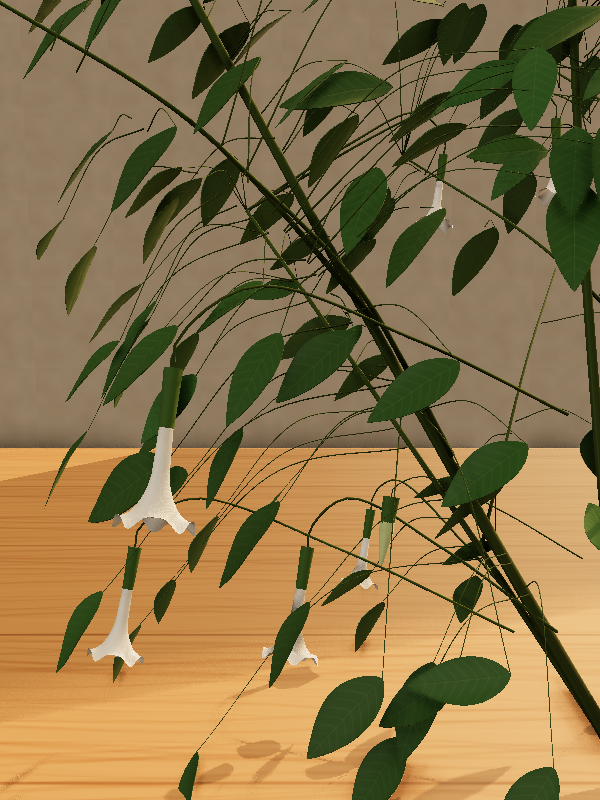
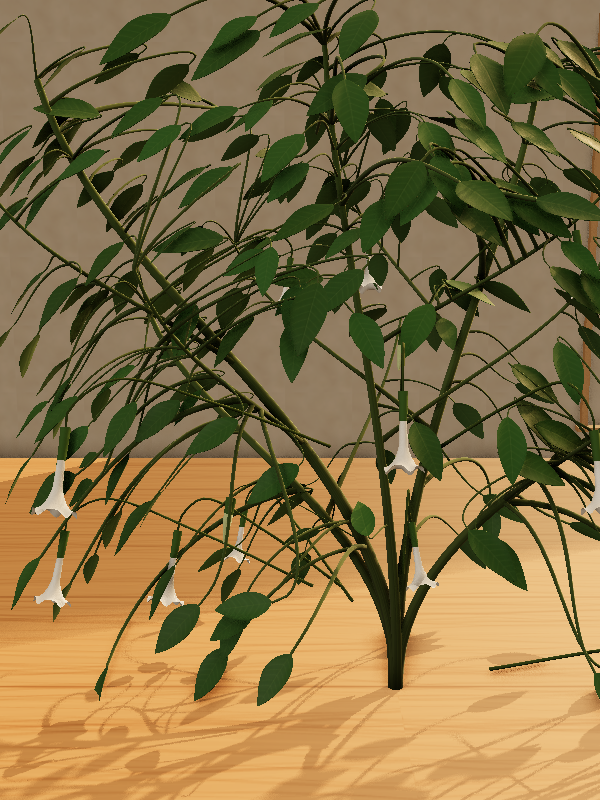
feat(3d): grown, fuller stems and branches in the plant's art direction
- Curve-based centrelines (cubic Bezier) for stems, branches and petioles;
  leaves and branches attach on the same curves (no more straight-line
  attachments off the drawn stem, no world-axis bow).
- Thickness hierarchy: stems 1.35x measured with a size-relative minimum,
  branches start at 72% of the parent radius, twigs thicken with length,
  fuller flower stalks; smoother taper and junction collars.
- Stem material joins leaves/petals: matte with soft sheen.

diff --git a/web/src/three/architecture.ts b/web/src/three/architecture.ts
@@ -1,4 +1,4 @@
-import { CatmullRomCurve3, Euler, Matrix4, Quaternion, Vector3 } from "three";
+import { CatmullRomCurve3, CubicBezierCurve3, Euler, Matrix4, Quaternion, Vector3 } from "three";
 import type { PlantState } from "@rootsight/shared/schema";
 import type { RenderProfile as PlantProfile } from "./visual";
 import { seededRandom, smoothstep } from "./procedural";
@@ -121,6 +121,24 @@ export function densityLeafFloor(p: PlantProfile, v: Visual): number {
 /** Blade direction for an azimuth and a pitch from vertical (0 up, pi/2 horizontal, pi hanging). */
 const bladeDirection = (az: number, pitch: number) => new Vector3(Math.sin(pitch) * Math.sin(az), Math.cos(pitch), Math.sin(pitch) * Math.cos(az));
 
+/**
+ * A grown, not drawn, centreline: a cubic Bézier from `a` to `b` that leaves `a` along `leave`, arrives
+ * along `arrive` and can bow sideways a little. The same curve places the leaves and branches it carries,
+ * so nothing attaches to a straight line the mesh no longer follows.
+ */
+export function smoothAxis(a: Vector3, b: Vector3, leave: Vector3, arrive: Vector3, bow = new Vector3()) {
+  const L = a.distanceTo(b);
+  const curve = new CubicBezierCurve3(a.clone(), a.clone().addScaledVector(leave, L * 0.38).addScaledVector(bow, L), b.clone().addScaledVector(arrive, -L * 0.3).addScaledVector(bow, L * 0.6), b.clone());
+  const samples = curve.getPoints(24);
+  return {
+    at: (t: number) => curve.getPoint(Math.min(1, Math.max(0, t))),
+    /** Parameter of the centreline point closest to p. */
+    nearest: (p: Vector3) => { let best = 0, d = Infinity; samples.forEach((s, i) => { const e = s.distanceToSquared(p); if (e < d) { d = e; best = i; } }); return best / 24; },
+    points: (t1 = 1, n = 12) => Array.from({ length: n + 1 }, (_, j) => curve.getPoint(Math.min(1, t1) * j / n)),
+  };
+}
+export type Axis = ReturnType<typeof smoothAxis>;
+
 /** Closest point to `p` on the segment a-b, as a fraction along it. */
 function along(a: Vector3, b: Vector3, p: Vector3) {
   const ab = b.clone().sub(a);
@@ -159,13 +177,22 @@ export function plantLayout(p: PlantProfile, state: PlantState, v: Visual): Plan
   const bases = seen
     ? seen.map(s => RIGHT.clone().multiplyScalar(Math.max(-0.85, Math.min(0.85, s.baseX * frame.W / 2 / Math.max(0.01, soilR))) * soilR).addScaledVector(TOWARD, LAYER_DEPTH[s.layer] * soilR * 0.25))
     : Array.from({ length: nStems }, (_, i) => new Vector3(Math.sin(i * GOLDEN) * soilR * 0.28 * Math.sqrt(i / nStems), 0, Math.cos(i * GOLDEN) * soilR * 0.28 * Math.sqrt(i / nStems)));
-  const stemRadius = (i: number) => (seen ? seen[i].thicknessMm / 2000 * Math.sqrt(growth) : radius);
-  const path = (id: string, points: Vector3[], r: number, depth = 0) => {
-    const random = seededRandom(v.seed + id);
-    const curvature = v.stems.curvature * (random() - 0.5);
-    const delta = points.at(-1)!.clone().sub(points[0]);
-    const curved = points.map((point, i) => point.clone().add(new Vector3(Math.sin(i / (points.length - 1) * Math.PI) * delta.length() * curvature * 0.2, 0, Math.sin(i / (points.length - 1) * Math.PI) * delta.length() * curvature * 0.1)));
-    stemPaths.push({ id, points: curved, radius: r, taper: v.stems.taper, depth });
+  // Stylized botanical proportions: stems a little fuller than measured, never thinner than a plant this
+  // size can stand on, so they carry their flowers and fruits visibly.
+  const FULL = 1.35, minStem = initialH * 0.0045 * Math.sqrt(growth);
+  const stemRadius = (i: number) => Math.max(minStem, (seen ? seen[i].thicknessMm / 2000 : v.stems.thicknessCm / 200) * Math.sqrt(growth)) * FULL;
+  const radiusAt = (r: number, t: number) => r * (1 - v.stems.taper * Math.pow(t, 1.6)); // matches StemGeometry
+  const petioleRadius = Math.max(radius * v.botanical.structure.petioleRadius * 1.6, length * 0.018);
+  const path = (id: string, points: Vector3[], r: number, depth = 0) => { stemPaths.push({ id, points, radius: r, taper: v.stems.taper, depth }); };
+  // A petiole or twig: rises off its stem, arches, and arrives along the blade's own axis.
+  // Longer twigs are thicker (a twig carrying a far leaf is wood, not a wire); `g` scales an emerging one.
+  const petiole = (id: string, from: Vector3, to: Vector3, r: number, into?: Vector3, g = 1) => {
+    const d = to.clone().sub(from), L = d.length();
+    if (L < 1e-6) return;
+    r = Math.max(r, L * 0.011 * g);
+    d.divideScalar(L);
+    const leave = d.clone().addScaledVector(UP, 0.55).normalize(), arrive = (into ?? d).clone().normalize();
+    path(id, new CubicBezierCurve3(from.clone(), from.clone().addScaledVector(leave, L * 0.4), to.clone().addScaledVector(arrive, -L * 0.3), to.clone()).getPoints(8), r, 2);
   };
   const leafTop = grid ? foliageExtent(grid).top : 1.5;
   const stemTip = (stem: number) => {
@@ -174,20 +201,34 @@ export function plantLayout(p: PlantProfile, state: PlantState, v: Visual): Plan
     const jitter = 1 - (1 - v.silhouette.symmetry) * (0.15 + stem % 3 * 0.14);
     return new Vector3(Math.sin(a) * spread * 0.62, initialH * Math.pow(growth, 0.25) * 0.84 * jitter, Math.cos(a) * spread * 0.62);
   };
+  // Each main stem leaves the soil upright, bows gently (per the photographed curvature) and turns back up
+  // toward the light at its tip.
+  const stemAxes: Axis[] = bases.map((base, s) => {
+    const tip = stemTip(s), dir = tip.clone().sub(base).normalize();
+    const r = seededRandom(`${v.seed}:stem-axis:${s}`);
+    const side = new Vector3().crossVectors(dir, UP);
+    if (side.lengthSq() < 1e-6) side.set(1, 0, 0);
+    const bow = side.normalize().multiplyScalar((r() - 0.5) * (0.04 + 0.08 * v.stems.curvature));
+    return smoothAxis(base, tip, UP, dir.clone().add(UP).normalize(), bow);
+  });
   const highestNode = new Array<number>(nStems).fill(0);
-  const majorBranches: { id: string; stem: number; start: Vector3; end: Vector3; birth: number }[] = [];
+  const majorBranches: { id: string; stem: number; axis: Axis; birth: number }[] = [];
   const initialBranches = ["branching", "tree"].includes(kind) ? Math.min(24, individual?.estimatedBranchCount ?? (kind === "tree" ? m.branchingDepth * 2 : m.branchingDepth)) : 0;
   const branchesF = initialBranches + Math.max(0, count - observed) / 8;
   if (initialBranches > 0) for (let b = 0; b < Math.min(32, Math.ceil(branchesF)); b++) {
     const show = b < initialBranches ? 1 : smoothstep(0, 1, branchesF - b);
     const stem = b % nStems, level = 0.38 + Math.floor(b / nStems) * v.botanical.growth.nodeSpacing;
-    const start = bases[stem].clone().lerp(stemTip(stem), level);
+    const start = stemAxes[stem].at(level);
     const az = b * GOLDEN, angle = v.botanical.structure.branchAngleDeg * Math.PI / 180;
     const length = (spread * 0.65 + initialH * 0.12) * show * Math.pow(growth, 0.2);
     const end = start.clone().add(new Vector3(Math.sin(az) * Math.sin(angle) * length, Math.cos(angle) * length, Math.cos(az) * Math.sin(angle) * length));
     const id = `branch-${b}`;
-    path(id, [start, start.clone().lerp(end, 0.5).add(new Vector3(0, length * 0.08, 0)), end], stemRadius(stem) * v.botanical.structure.branchRadius * show, 1);
-    majorBranches.push({ id, stem, start, end, birth: Math.max(0, b - initialBranches + 1) });
+    // A branch leaves its stem outward and a little up, then curves up toward the light; it starts at
+    // ~70% of its parent's radius there (and tapers on), so the junction reads as grown.
+    const out = new Vector3(Math.sin(az), 0, Math.cos(az));
+    const axis = smoothAxis(start, end, out.clone().multiplyScalar(0.75).addScaledVector(UP, 0.55).normalize(), end.clone().sub(start).normalize().add(UP).normalize());
+    path(id, axis.points(1, 12), radiusAt(stemRadius(stem), level) * 0.72 * show, 1);
+    majorBranches.push({ id, stem, axis, birth: Math.max(0, b - initialBranches + 1) });
     highestNode[stem] = Math.max(highestNode[stem], level);
   }
   const vinePoint = (stem: number, t: number) => {
@@ -203,13 +244,13 @@ export function plantLayout(p: PlantProfile, state: PlantState, v: Visual): Plan
   const nearestWood = (target: Vector3) => {
     let best = { parentId: `stem-0`, stem: 0, point: bases[0].clone(), distance: Infinity, t: 0 };
     for (let s = 0; s < nStems; s++) {
-      const tip = stemTip(s), t = Math.max(0.08, along(bases[s], tip, target)), point = bases[s].clone().lerp(tip, t);
+      const t = Math.max(0.08, stemAxes[s].nearest(target)), point = stemAxes[s].at(t);
       const distance = point.distanceTo(target);
       if (distance < best.distance) best = { parentId: `stem-${s}`, stem: s, point, distance, t };
     }
     for (const branch of majorBranches) {
       if (branch.birth > 0) continue;
-      const t = Math.max(0.2, along(branch.start, branch.end, target)), point = branch.start.clone().lerp(branch.end, t);
+      const t = Math.max(0.2, branch.axis.nearest(target)), point = branch.axis.at(t);
       const distance = point.distanceTo(target);
       if (distance < best.distance) best = { parentId: branch.id, stem: branch.stem, point, distance, t: -1 };
     }
@@ -256,7 +297,8 @@ export function plantLayout(p: PlantProfile, state: PlantState, v: Visual): Plan
         if (wood.t >= 0) highestNode[wood.stem] = Math.max(highestNode[wood.stem], wood.t);
       }
       const lift = kind === "aroid" ? Math.max(0.02, point.y - attachment.y) * 0.35 : attachment.distanceTo(point) * 0.2;
-      path(`petiole-${id}`, [attachment, attachment.clone().lerp(point, 0.5).add(new Vector3(0, lift, 0)), point], (kind === "aroid" ? radius * (0.7 + 0.3 * youth) : radius * v.botanical.structure.petioleRadius) * grow, 2);
+      if (kind === "aroid") path(`petiole-${id}`, [attachment, attachment.clone().lerp(point, 0.5).add(new Vector3(0, lift, 0)), point], radius * (0.7 + 0.3 * youth) * grow, 2);
+      else petiole(`petiole-${id}`, attachment, point, petioleRadius * grow, axis, grow);
     } else if (kind === "aroid") {
       const level = individual?.crownShape === "round" ? 0.52 + 0.25 * r[2] : 0.40 + 0.44 * r[2];
       const reach = spread * (0.35 + r[3] * 0.65);
@@ -286,11 +328,11 @@ export function plantLayout(p: PlantProfile, state: PlantState, v: Visual): Plan
       const coverage = Math.min(0.8, Math.max(0.3, v.stems.internodeCm / m.currentHeightCm * Math.max(1, totalNodes - 1))) * (1 - v.condition.legginess * 0.55);
       const stage = node - (i >= observed ? 1 - grow : 0);
       const t = Math.max(0.05, 1 - coverage + stage * coverage / Math.max(1, totalNodes - 1));
-      let axis = bases[assignedStem].clone().lerp(stemTip(assignedStem), t);
+      let axis = stemAxes[assignedStem].at(t);
       const available = majorBranches.filter(branch => branch.stem === assignedStem && branch.birth === 0);
       const branch = i >= observed ? majorBranches.find(branch => branch.id === `branch-${initialBranches + Math.floor((i - observed) / 8)}`) : available.length ? available[Math.floor(rank / pair) % available.length] : undefined;
       if (branch) {
-        axis = branch.start.clone().lerp(branch.end, 0.3 + 0.65 * ((rank % 3) / 2));
+        axis = branch.axis.at(0.3 + 0.65 * ((rank % 3) / 2));
         parentId = branch.id;
       }
       if (!branch) highestNode[assignedStem] = Math.max(highestNode[assignedStem], t);
@@ -300,7 +342,7 @@ export function plantLayout(p: PlantProfile, state: PlantState, v: Visual): Plan
       point = axis.clone().add(new Vector3(Math.sin(az) * branchL, branchL * 0.3, Math.cos(az) * branchL));
       attachment = axis;
       if (!branch) parentId = `stem-${assignedStem}`;
-      if (!observation) path(`petiole-${id}`, [axis, axis.clone().lerp(point, 0.5).add(new Vector3(0, branchL * 0.15, 0)), point], radius * v.botanical.structure.petioleRadius * grow, 2);
+      if (!observation) petiole(`petiole-${id}`, axis, point, petioleRadius * grow, undefined, grow);
       pitch = 1.35 + t * 0.3 + droop;
       size *= 1 - Math.min(0.2, node / Math.max(1, totalNodes) * 0.2);
     }
@@ -315,11 +357,12 @@ export function plantLayout(p: PlantProfile, state: PlantState, v: Visual): Plan
       orientation = bladeFrame(bladeDirection(az, pitch), TOWARD.clone().add(UP).normalize(), (r[4] - 0.5) * 0.22);
       if (seen && kind !== "aroid") {
         // An observed blade hangs on its observed stem, at the height the photo shows it.
-        const tip = stemTip(stem), t = Math.max(0.08, along(bases[stem], tip, point));
-        attachment = bases[stem].clone().lerp(tip, t);
+        const t = Math.max(0.08, stemAxes[stem].nearest(point));
+        attachment = stemAxes[stem].at(t);
         highestNode[stem] = Math.max(highestNode[stem], t);
       }
-      path(`petiole-${id}`, [attachment, attachment.clone().lerp(point, 0.5).add(new Vector3(0, initialH * 0.05, 0)), point], radius * (kind === "aroid" ? 0.8 : v.botanical.structure.petioleRadius), 2);
+      if (kind === "aroid") path(`petiole-${id}`, [attachment, attachment.clone().lerp(point, 0.5).add(new Vector3(0, initialH * 0.05, 0)), point], radius * 0.8, 2);
+      else petiole(`petiole-${id}`, attachment, point, petioleRadius, bladeDirection(az, pitch));
     }
     size *= 1 - v.botanical.growth.senescence * smoothstep(1, 4, growth) * (i < observed ? 1 - i / Math.max(1, observed) : 0);
     const rotation = orientation ?? new Quaternion().setFromEuler(new Euler(0, az, 0)).multiply(new Quaternion().setFromEuler(new Euler(-Math.PI / 2 + pitch, 0, (r[4] - 0.5) * 0.22)));
@@ -331,8 +374,7 @@ export function plantLayout(p: PlantProfile, state: PlantState, v: Visual): Plan
   }
   // Observed stems are drawn to their photographed tip; generated ones up to the highest leaf they carry.
   if (["branching", "tree"].includes(kind)) bases.forEach((base, i) => {
-    const tip = base.clone().lerp(stemTip(i), seen ? Math.max(1, highestNode[i]) : highestNode[i]);
-    path(`stem-${i}`, Array.from({ length: 6 }, (_, j) => base.clone().lerp(tip, j / 5)), stemRadius(i) * (kind === "tree" ? 1.4 : 1));
+    path(`stem-${i}`, stemAxes[i].points(seen ? 1 : highestNode[i], 16), stemRadius(i) * (kind === "tree" ? 1.4 : 1));
   });
   // Metadata and centerline matrices remain useful for determinism/continuity tests.
   for (const stem of stemPaths) {

diff --git a/web/src/three/Plant.tsx b/web/src/three/Plant.tsx
@@ -1,5 +1,5 @@
 import { useEffect, useLayoutEffect, useMemo, useRef } from "react";
-import { BufferGeometry, Color, ConeGeometry, InstancedBufferAttribute, MeshDepthMaterial, RGBADepthPacking, DoubleSide, Float32BufferAttribute, InstancedMesh, Matrix4, MeshStandardMaterial, Quaternion, SphereGeometry, Vector3 } from "three";
+import { BufferGeometry, Color, ConeGeometry, InstancedBufferAttribute, MeshDepthMaterial, RGBADepthPacking, DoubleSide, Float32BufferAttribute, InstancedMesh, Matrix4, MeshPhysicalMaterial, MeshStandardMaterial, Quaternion, SphereGeometry, Vector3 } from "three";
 import type { Material } from "three";
 import type { PlantState } from "@rootsight/shared/schema";
 import type { RenderProfile as PlantProfile } from "./visual";
@@ -63,7 +63,8 @@ function Foliage({ profile, state, v }: { profile: PlantProfile; state: PlantSta
     depth.onBeforeCompile = deformLeaf;
     const materials = [0, 1, 2, 3].map(i => leafSurface(profile, v, i));
     // Believable living tissue: the photographed stem colour, a little deeper, matte, few environment glints.
-    const stem = new MeshStandardMaterial({ color: new Color(profile.morphology.stemColor).multiplyScalar(0.88), roughness: 0.8, envMapIntensity: 0.5, vertexColors: true, map: stemTexture() });
+    // Living tissue in the same family as leaves and petals: matte with a soft velvet sheen at the edges.
+    const stem = new MeshPhysicalMaterial({ color: new Color(profile.morphology.stemColor).multiplyScalar(0.88), roughness: 0.74, envMapIntensity: 0.5, vertexColors: true, map: stemTexture(), sheen: 0.35, sheenRoughness: 0.6, sheenColor: new Color(v.stems.tipColor).lerp(new Color("#ffffff"), 0.4) });
     stem.onBeforeCompile = shader => {
       shader.uniforms.tipColor = { value: new Color(v.stems.tipColor) };
       shader.vertexShader = 'varying float stemAge;\n' + shader.vertexShader;

diff --git a/web/src/three/StemGeometry.ts b/web/src/three/StemGeometry.ts
@@ -17,15 +17,16 @@ export function stemGeometry(paths: StemPath[]): BufferGeometry {
     const r = seededRandom(`stem-geometry:${path.id}`);
     const curve = new CatmullRomCurve3(path.points, false, "centripetal");
     const rings = Math.min(28, Math.max(8, Math.round(8 + curve.getLength() * 90)));
-    const sides = path.depth >= 3 ? 6 : 9;
+    const sides = [10, 9, 8, 7, 6][Math.min(4, path.depth)];
     const frames = curve.computeFrenetFrames(rings, false);
     const phase = r() * 6.28, oval = 0.05 + r() * 0.07, swell = 0.025 + r() * 0.025, turn = (r() - 0.5) * 3;
-    const flare = [0.28, 0.14, 0.06, 0.04, 0.02][Math.min(4, path.depth)];
+    // Collar where a stem leaves the soil or its parent: a soft fillet instead of a hard joint.
+    const flare = [0.3, 0.38, 0.3, 0.18, 0.1][Math.min(4, path.depth)], collar = [9, 16, 18, 18, 18][Math.min(4, path.depth)];
     const woody = [1, 0.55, 0.12, 0.05, 0][Math.min(4, path.depth)];
     const offset = positions.length / 3;
     for (let i = 0; i <= rings; i++) {
       const t = i / rings, center = curve.getPointAt(t);
-      const radius = path.radius * (1 - path.taper * Math.pow(t, 1.15)) * (1 + flare * Math.exp(-t * 9)) * (1 + swell * Math.sin(t * 6.1 + phase) * Math.sin(t * 2.3 + phase * 0.7));
+      const radius = path.radius * (1 - path.taper * Math.pow(t, 1.6)) * (1 + flare * Math.exp(-t * collar)) * (1 + swell * Math.sin(t * 6.1 + phase) * Math.sin(t * 2.3 + phase * 0.7));
       // Woody and darker toward the base of main stems, fresher toward every tip; a slow streaky variation.
       const age = woody * (1 - t) ** 1.4, streak = 1 + 0.045 * Math.sin(t * 13 + phase * 2);
       // Junction occlusion: darker where a stalk leaves its parent, and under the head it carries.

diff --git a/web/src/three/bloomLayout.ts b/web/src/three/bloomLayout.ts
@@ -161,7 +161,8 @@ export function bloomLayout(p: PlantProfile, state: PlantState, v: Visual): Bloo
     const nodding = facing.y < -0.2;
     // A nodding head hangs from a stalk that rises past it and arches over; others meet it from below.
     const crest = nodding ? into.clone().add(new Vector3(0, size * 0.6, 0)).addScaledVector(new Vector3(anchor.x - into.x, 0, anchor.z - into.z), 0.15) : anchor.clone().lerp(into, 0.6).add(new Vector3(0, size * 0.2, 0));
-    const stalkRadius = Math.min(0.004, Math.max(0.0009, size * 0.035 * Math.sqrt(n)));
+    // Stalks strong enough for what they carry (stylized: a touch fuller than life).
+    const stalkRadius = Math.min(0.006, Math.max(0.0012, size * 0.045 * Math.sqrt(n)));
     stalks.push({ id: `stalk-${c.id}`, points: [anchor, anchor.clone().lerp(crest, 0.55).add(new Vector3(0, (crest.y - anchor.y) * 0.08, 0)), crest, into, end], radius: stalkRadius, taper: 0.3, depth: 3 });
     if (n > 1) for (const m of members) {
       stalks.push({ id: `pedicel-${m.id}`, points: [end, end.clone().lerp(m.base, 0.5).addScaledVector(facing, size * 0.1), m.base.clone().addScaledVector(m.facing, -m.size * 0.2), m.base], radius: stalkRadius * 0.45, taper: 0.25, depth: 4 });

diff --git a/docs/photo-reconstruction/README.md b/docs/photo-reconstruction/README.md
@@ -96,6 +96,20 @@ A diameter plus a species form ("trumpet") could not describe a long trumpet, an
   - Buds are spindles of the measured length.
 - **Fixture:** `brugmansia` is a live scan of a CC photo ([Brugmansia suaveolens, Yercaud](https://commons.wikimedia.org/wiki/File:Brugmansia_suaveolens-yercaud-salem-India.jpg), CC BY-SA 4.0). It measured 28 cm long, 60 % tube, a 2.5 cm tube, 5 lobes, a 10 cm calyx, hanging at 160°.
 
+## Grown stems (stylized botanical)
+
+- **Curves.** Stems, branches and petioles are cubic Bézier centrelines, not polylines. The same curve places the leaves and branches, so the old straight-line attachments that no longer matched the drawn stem are gone.
+  - Main stems leave the soil upright, bow gently by the photographed curvature, and turn up at the tip.
+  - Branches leave outward and curve up.
+  - Petioles rise, arch, and arrive along their blade's axis.
+- **Thickness hierarchy.**
+  - Stems are 1.35× the measured thickness, never below 0.45 % of plant height.
+  - A branch starts at 72 % of its parent's radius at that point.
+  - Twigs thicken with their length.
+  - Flower stalks are sized to what they carry.
+  - A smoother taper (t^1.6) and soft collars at every junction complete it.
+- **Material.** Stems use the same family as leaves and petals: matte with a soft sheen.
+
 ## Run it live
 
 ```sh
